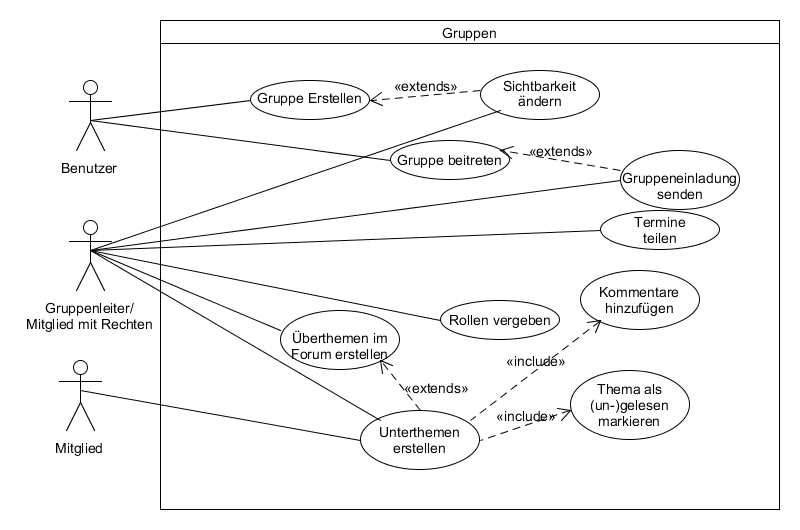
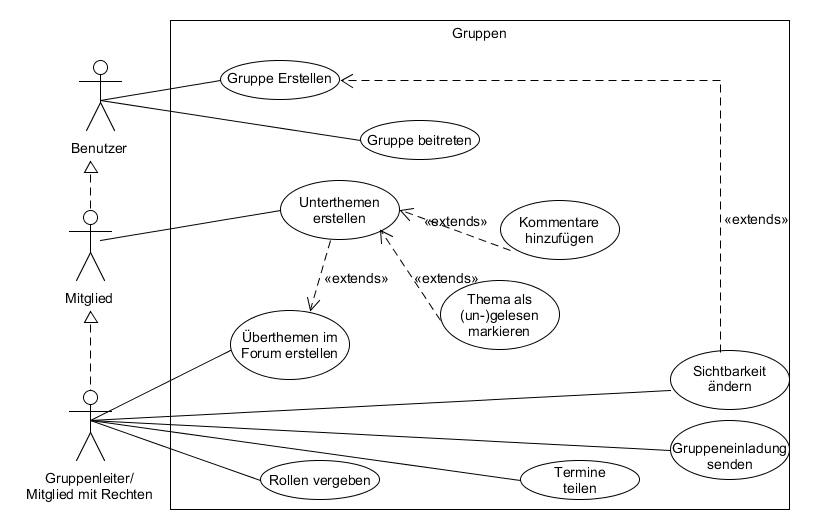
Update Gruppen Use-Case

diff --git a/Pflichtenheft.md b/Pflichtenheft.md
@@ -137,8 +137,10 @@ Auf der Mobilenansicht wird in der Mitgliederliste der aktuelle Status der Mitgl
 | Als Gruppenmitglied                     | meine Kommentare and Unterthemen senden  | jeder meine Meinung zum Thema sehen kann | Kommentar wird im Unterthema angezeigt   | SOLL      |
 | Als Mobilnutzer                         | die Aktivität anderer Gruppenmitglieder sehen | ich weiß ob sie gerade anwesend sind oder nicht | Benutzer sind in der Mitgliederliste mit Punkten markiert | KANN      |
 
+#### Use-Case-Diagramm
+
 <br>
-<img src="./images/usecase/Gruppen_Usecase.png" width="500">
+<img src="./images/usecase/Gruppen_Usecase.png" width="800">
 <br>
 
 ### Chaträume
